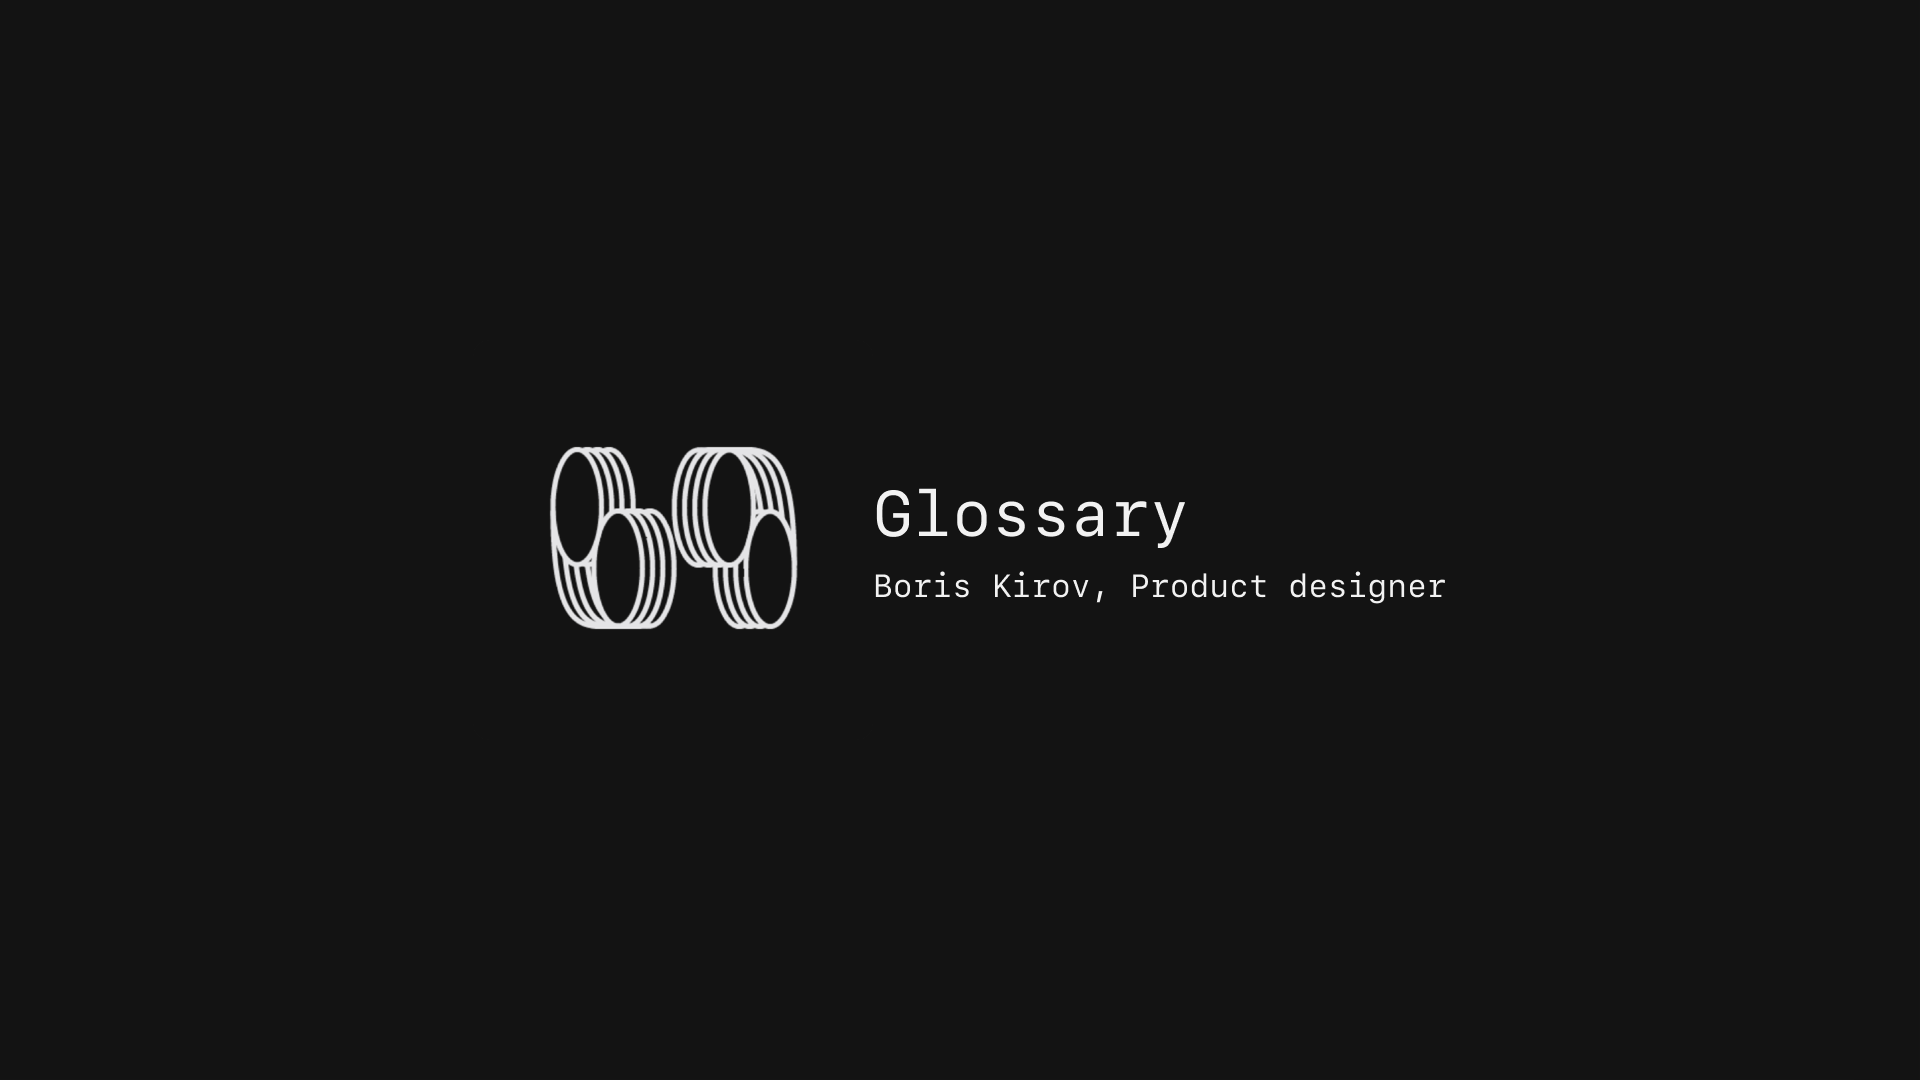
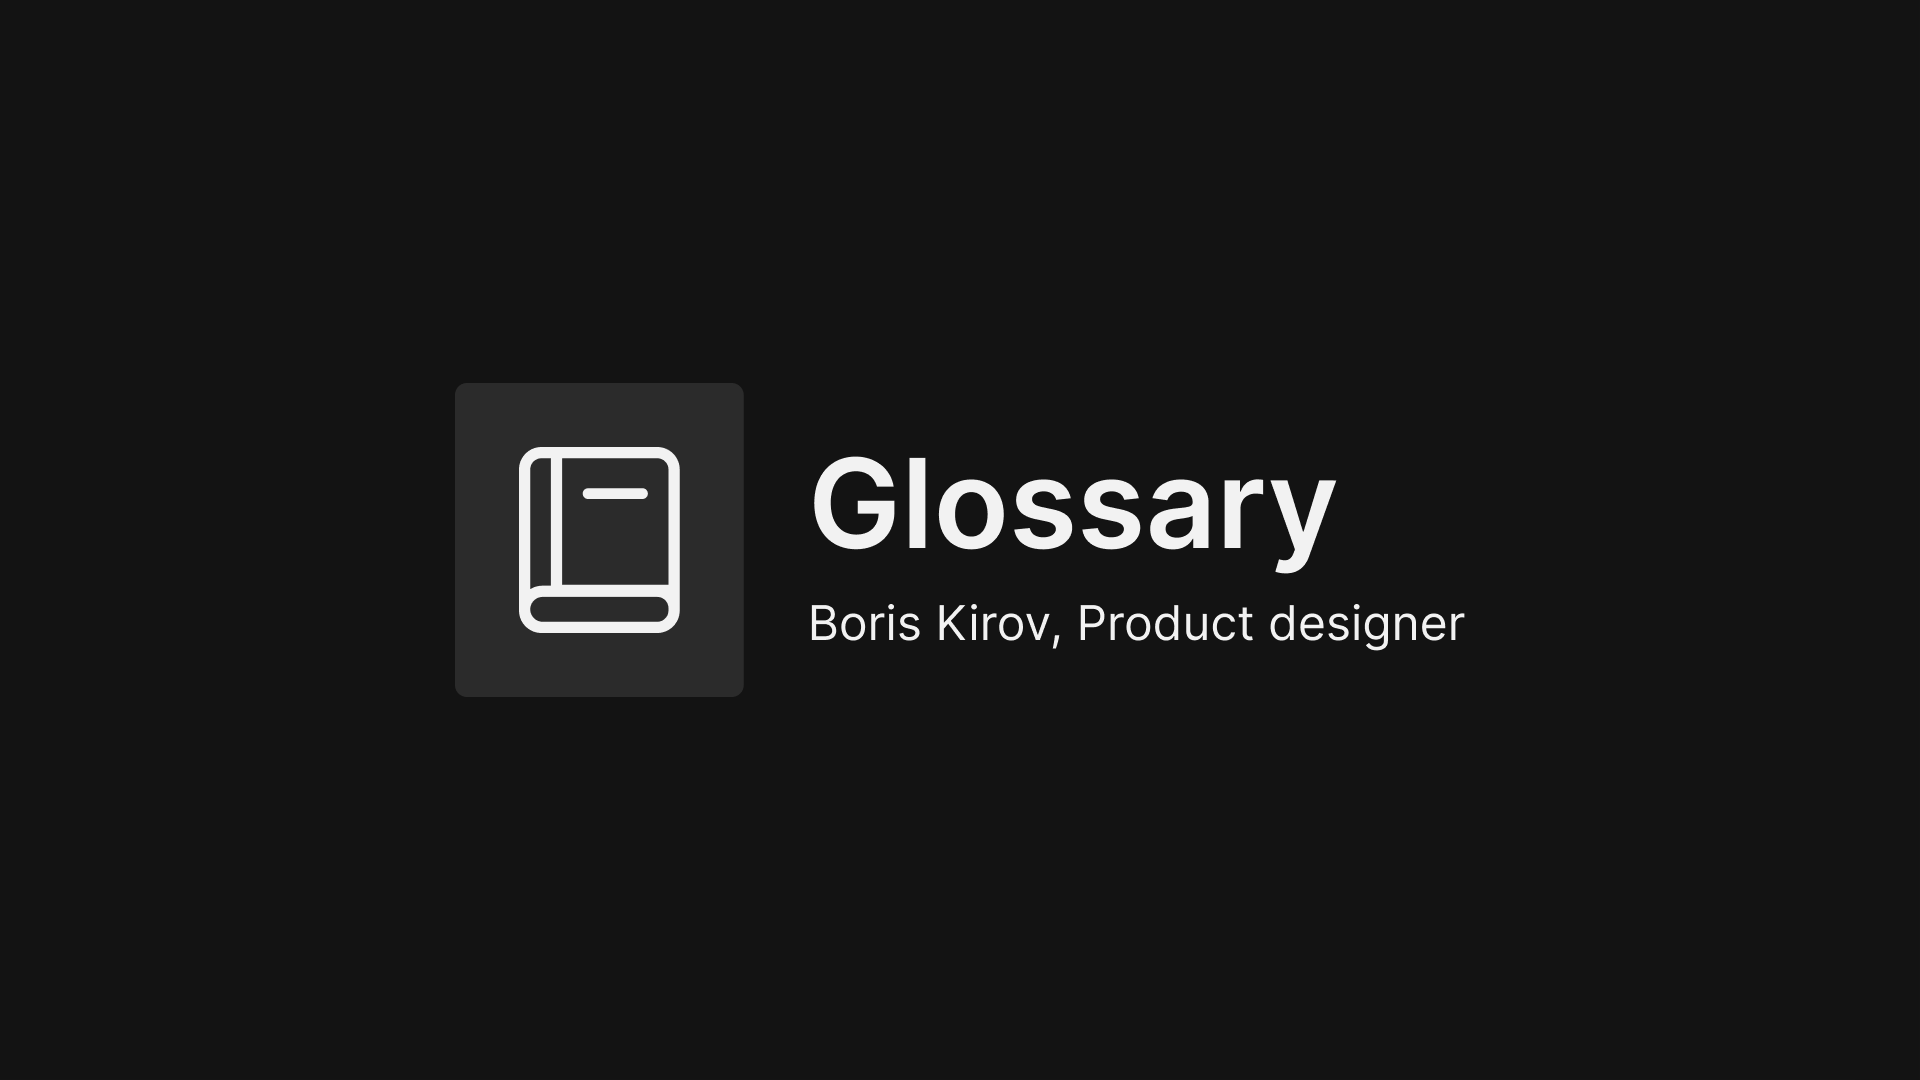
added new metadata images and inter font for readability

Changed region(s): [[0.25, 0.3972, 0.75, 0.6111]]

diff --git a/pages/miro.js b/pages/miro.js
@@ -45,7 +45,8 @@ const Miro = () => (
         <ul>
           <li>
             <ul>
-              <h5>Platform Experience</h5>
+              <h6>Platform Experience</h6>
+              <hr />
               <li className="listStyleCircle">
                 <a
                   href="https://developers.miro.com/docs"
@@ -78,8 +79,8 @@ const Miro = () => (
           </li>
           <li>
             <ul>
-              <h5>Design system & Accessibility</h5>
-
+              <h6>Design system & Accessibility</h6>
+              <hr />
               <li className="listStyleCircle">Grower and advocate</li>
               <li className="listStyleCircle">
                 Ways of working, contribution models and stream collaboration
@@ -113,7 +114,8 @@ const Miro = () => (
 
           <li>
             <ul>
-              <h5>Side projects</h5>
+              <h6>Side projects</h6>
+              <hr />
               <li className="listStyleCircle">
                 <a
                   href="https://miroshortcuts.vercel.app/"

diff --git a/styles/styles.css b/styles/styles.css
@@ -4,6 +4,10 @@
   box-sizing: border-box;
 }
 
+@import url("https://rsms.me/inter/inter.css");
+@supports (font-variation-settings: normal) {
+}
+
 @media (color-gamut: p3) {
   :root {
     --dark-color-bg: color(display-p3 0.053 0.064 0.096 / 1);
@@ -18,8 +22,7 @@
 }
 
 :root {
-  --font-family: SFMono-Regular, Consolas, "Liberation Mono", Menlo, Courier,
-    monospace;
+  --font-family: "Inter", sans-serif;
   --dark-color-bg: #131313;
   --light-color-text: #e2e2e2;
   --light-color-bg: #e2e2e2;
@@ -251,7 +254,6 @@ li.footerLi:last-child {
   color: inherit;
   cursor: e-resize;
   text-decoration: none;
-  font-weight: 500;
   text-shadow: none;
   text-decoration: none;
   padding: var(--space-small) var(--space-large);
@@ -273,6 +275,7 @@ a.mainCard:focus {
 .mainCard[href] h6 {
   padding: var(--space-xsmall) var(--space-xsmall) 0px var(--space-xsmall);
   margin: var(--space-small) 0;
+  font-weight: normal;
 }
 
 .mainCard[href]:hover h6 {

diff --git a/styles/fluiditype.css b/styles/fluiditype.css
@@ -16,8 +16,8 @@
   --light-blue: #b3d7ff; /* The color is the native browser highlight text color, to make the appeal of importance and focus on specific areas of the text.*/
   --dark-gray: #282c35;
   --light-gray: #f7f7f7;
-  --font-family: SFMono-Regular, Consolas, "Liberation Mono", Menlo, Courier,
-    monospace;
+  --font-family-code: SFMono-Regular, Consolas, "Liberation Mono", Menlo,
+    Courier, monospace;
 }
 
 html,
@@ -55,7 +55,7 @@ code {
   letter-spacing: var(--letter-spacing);
   font-weight: calc(var(--font-weight) * 1.33);
   color: var(--red);
-  font-family: var(--font-family);
+  font-family: var(--font-family-code);
 }
 
 mark {

diff --git a/components/Toolbox/data.js b/components/Toolbox/data.js
@@ -26,7 +26,7 @@ const ToolboxList = [
   {
     name: "Notion",
     url: "https://notion.so",
-    image: "/Notion.png",
+    image: "/notion.png",
     category: "Writing",
   },
   {
